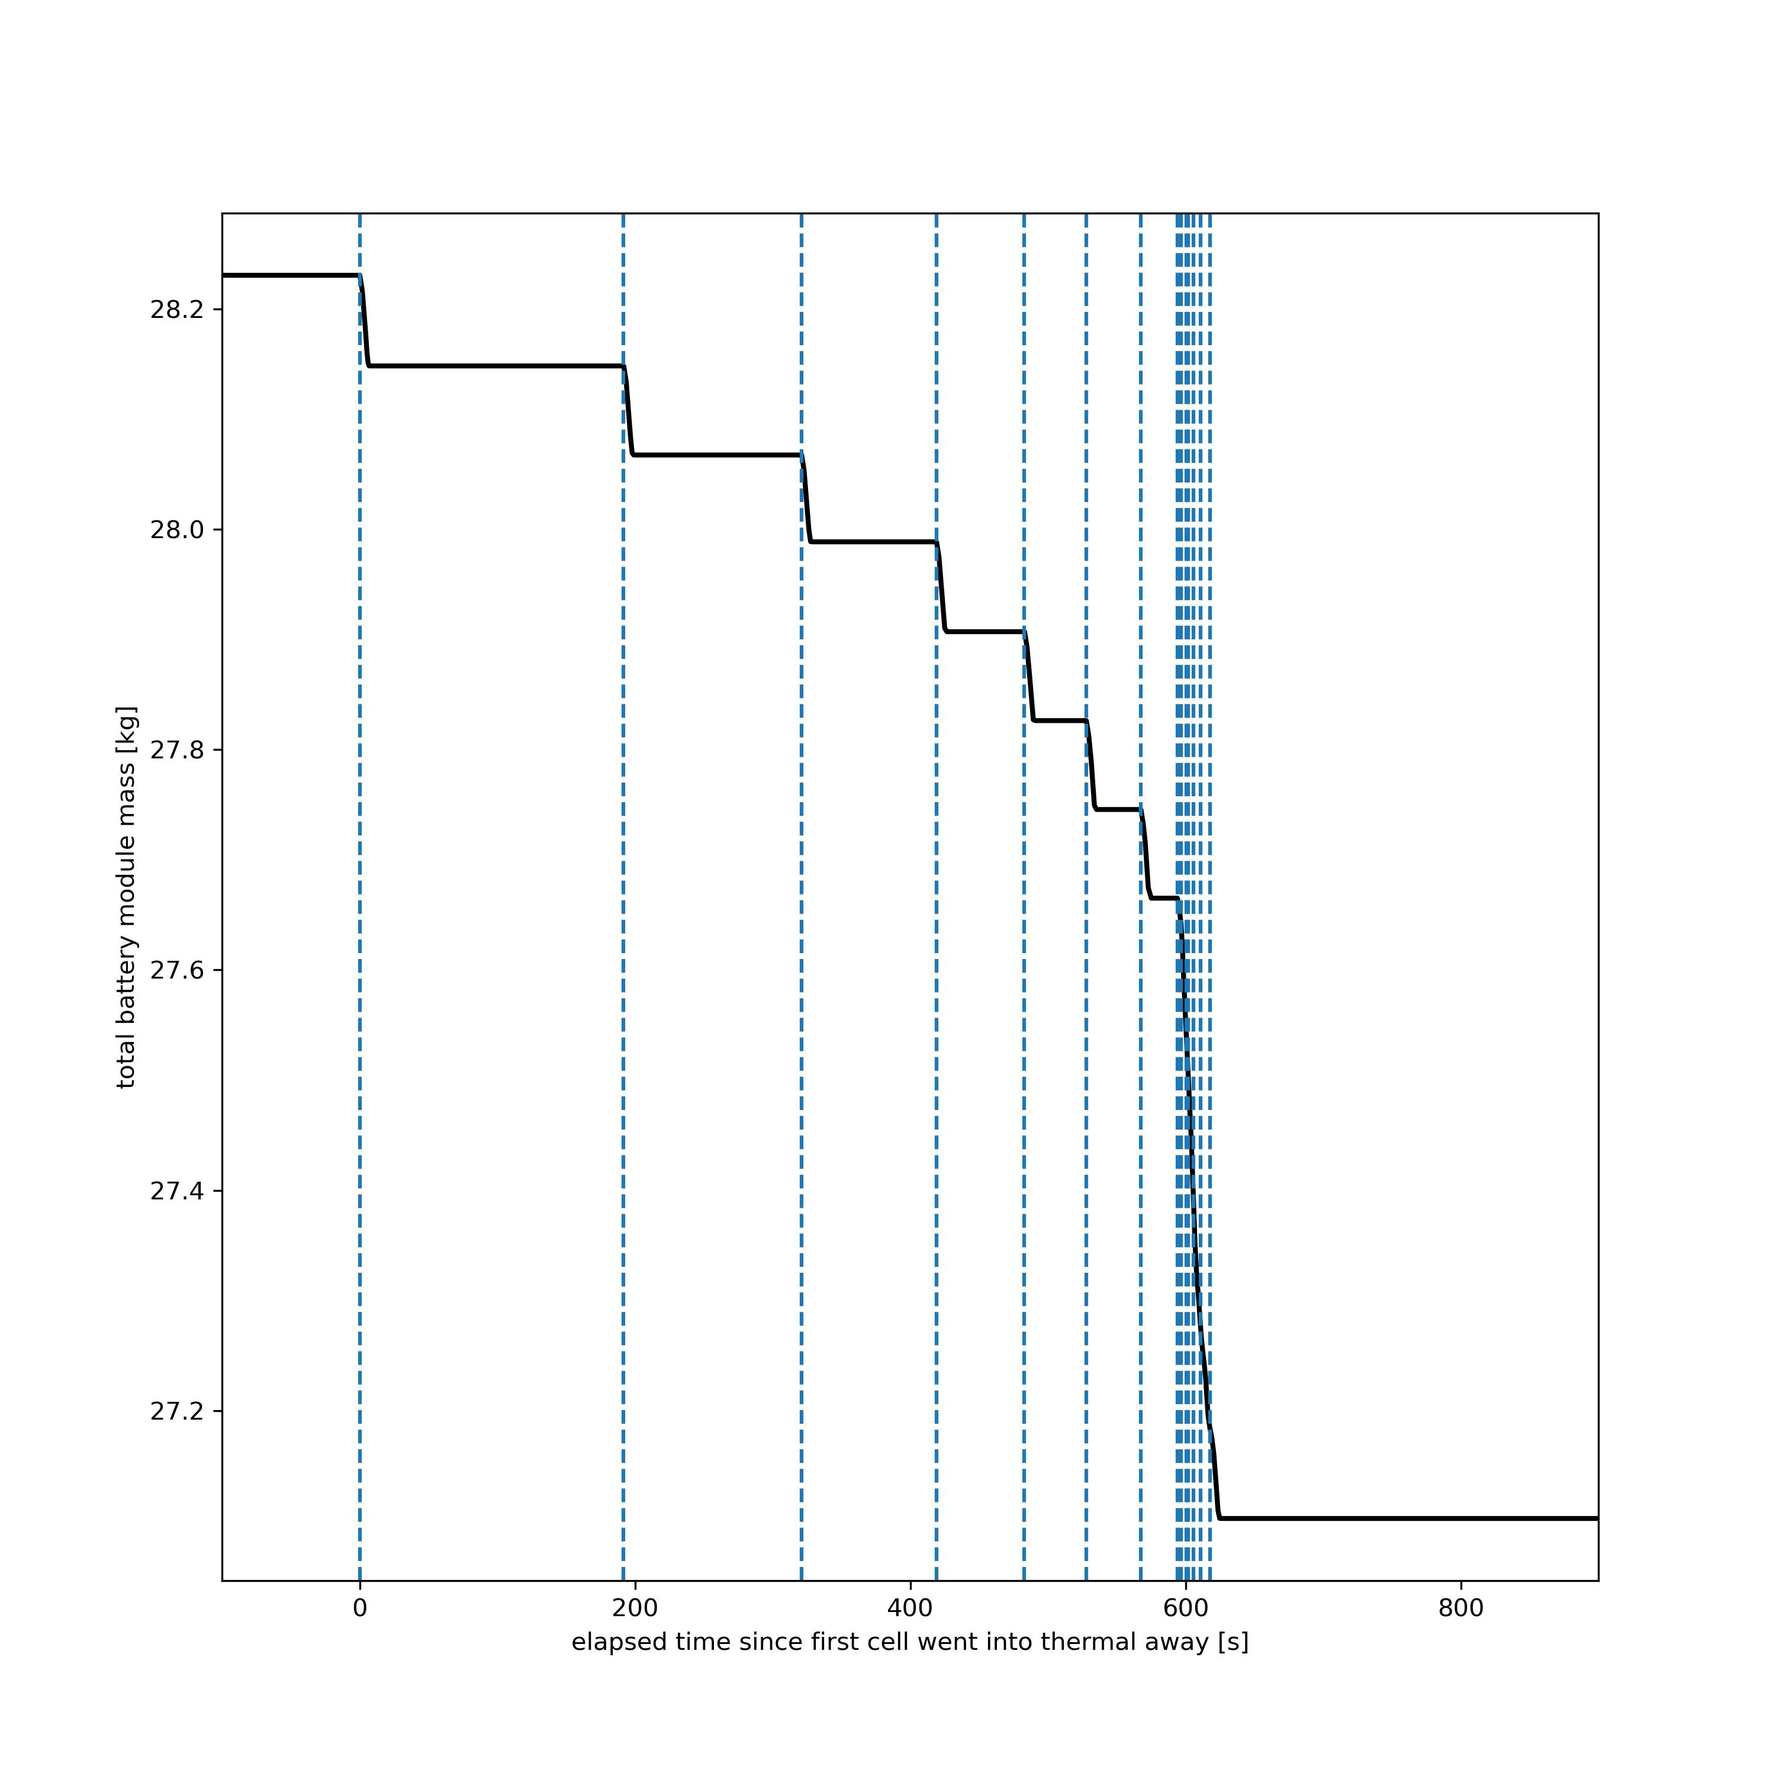
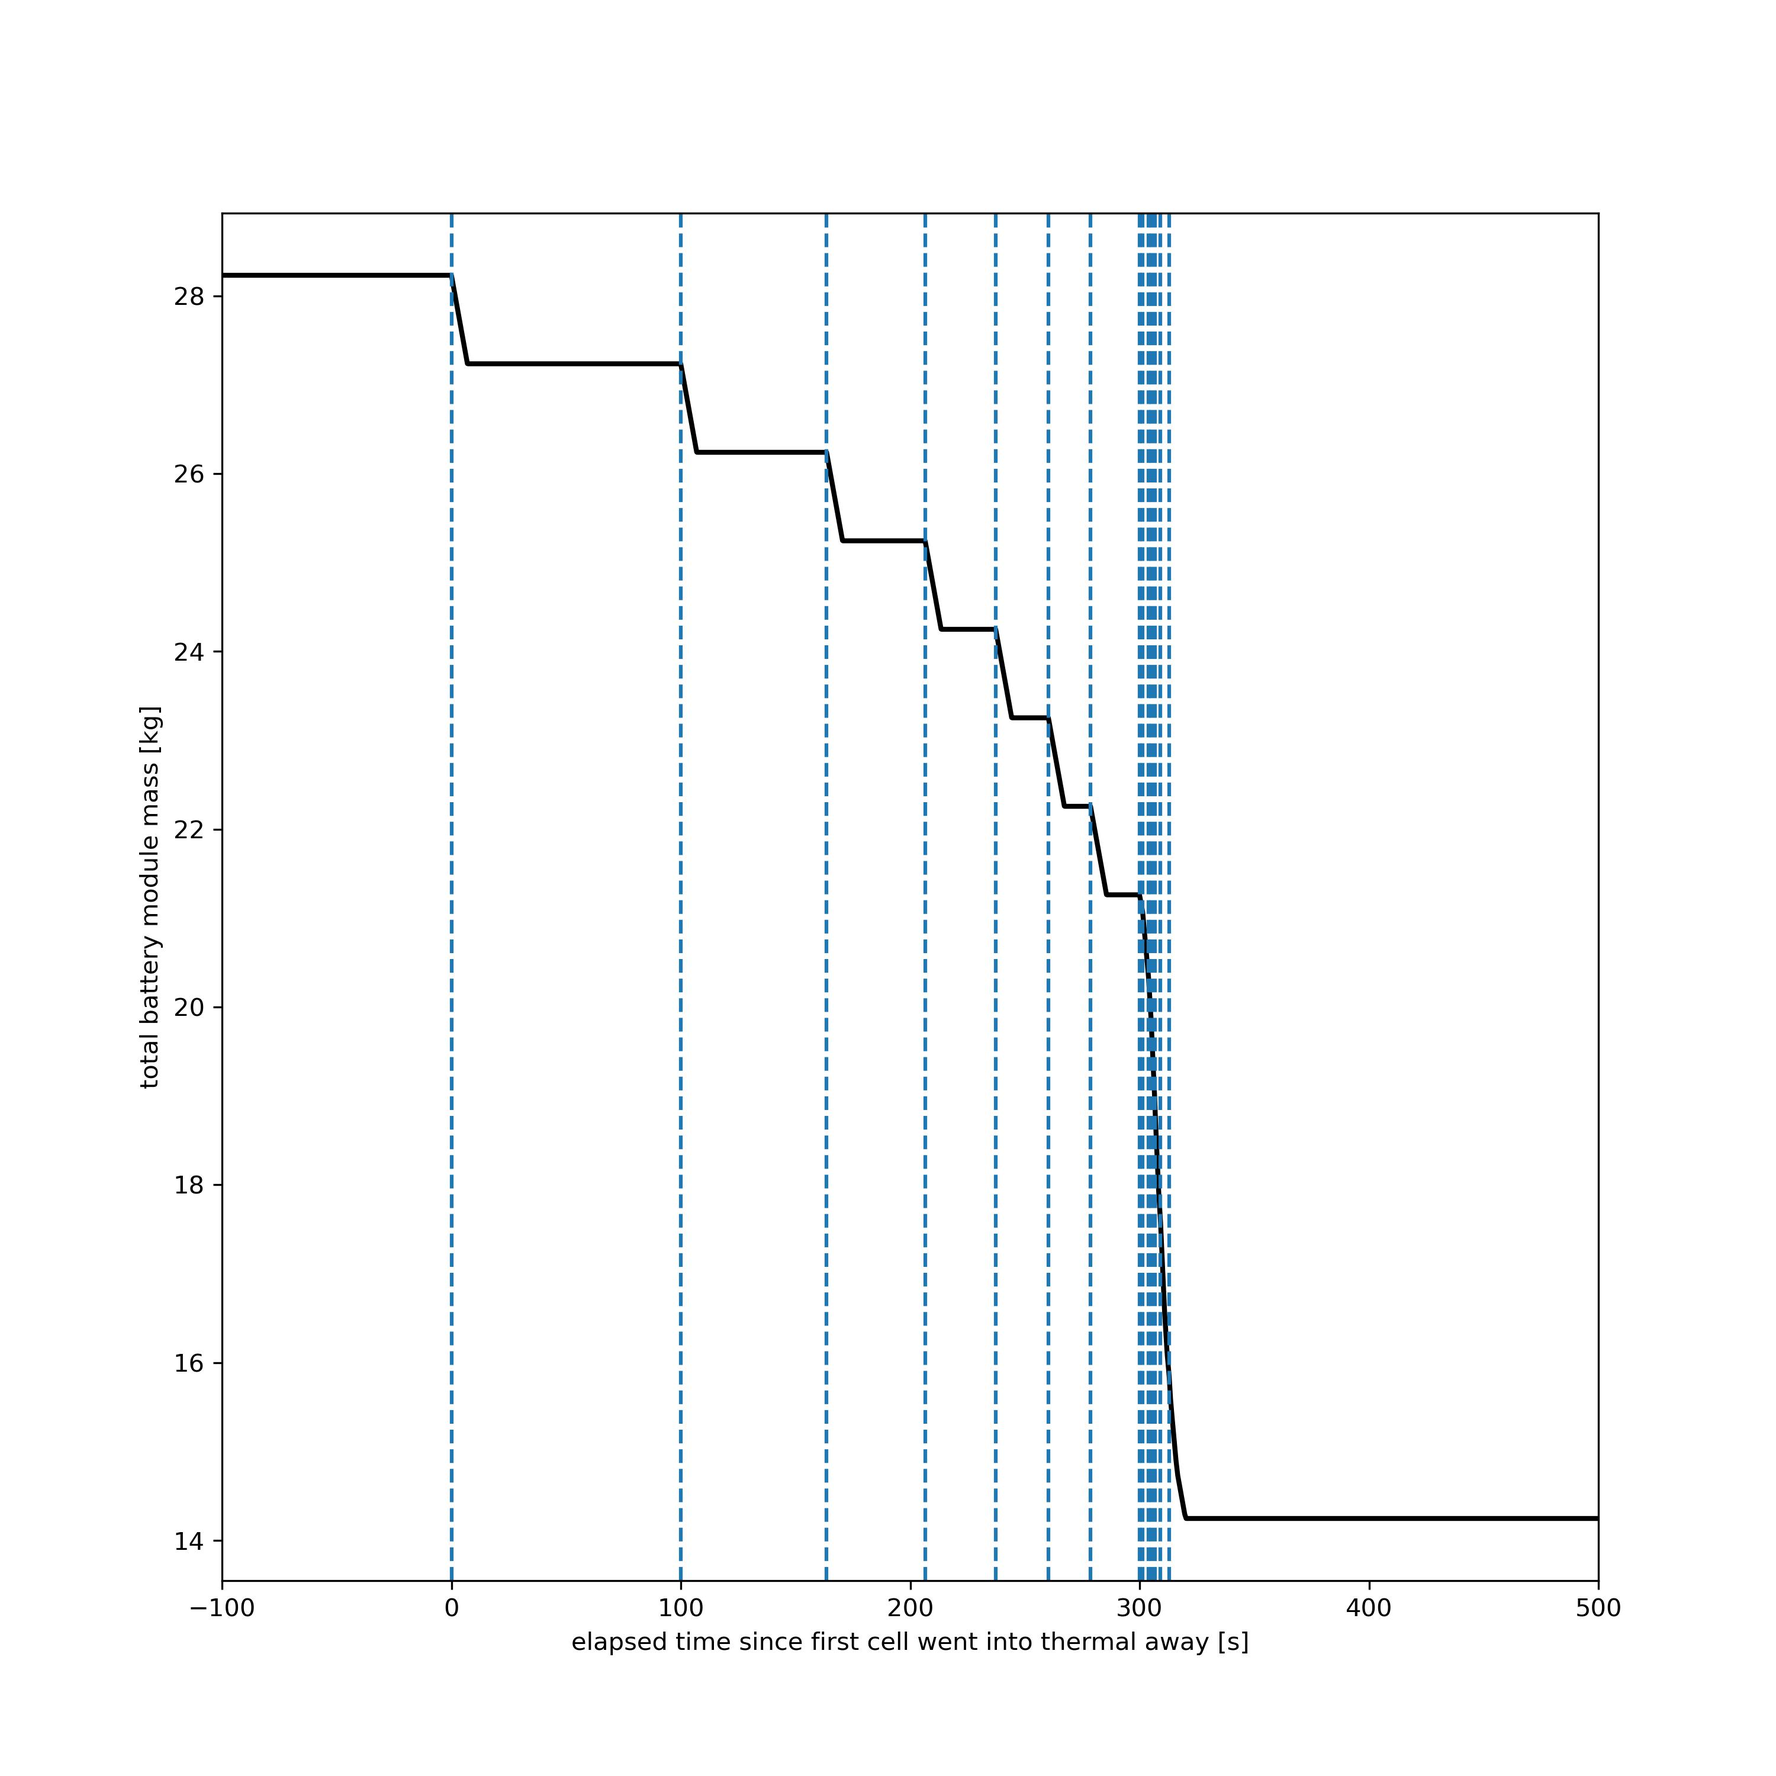
Model improved; baseline confirmed

diff --git a/sim.py b/sim.py
@@ -23,7 +23,7 @@ CELL_LENGTH = 0.173
 CELL_WIDTH = 0.045
 CELL_HEIGHT = 0.125
 
-CELL_MEAN_SPECIFIC_HEAT = 1100.0 # J __kg __K
+CELL_MEAN_SPECIFIC_HEAT = 950.0 # J __kg __K
 
 CELL_WIDTH_GAP = 0.03
 CELL_WIDTHWISE_CENTER_DIST = CELL_WIDTH_GAP + CELL_WIDTH
@@ -36,6 +36,8 @@ BASE_TO_CEILING_DIST = 0.35
 # Initial values
 CELL_INIT_TEMP = 300.0 # Kelvin
 CELL_INIT_MASS = 2.01 # kg 
+
+CELL_MASS_LOSS = 1.0 
 # external heat sources
 HEATING_PWR = 500.0 # Watts
 
@@ -56,7 +58,7 @@ SPECIFIC_HEAT_ARRAY[14] = 5/2 * R_UNIVERSAL / MOLECULAR_WEIGHT_AIR
 
 TIME_VENTING = 7.0
 
-REACT_RLSE_ENG_J = 1100 * 1000 * CELL_INIT_MASS
+REACT_RLSE_ENG_J = 1000 * 1000 * CELL_INIT_MASS
 REACT_RLSE_PWR_W = REACT_RLSE_ENG_J / TIME_VENTING
 
 def thermal_conductivity(temp_K):
@@ -93,6 +95,48 @@ def gas_venting_rate(time_s, temp_K):
     cur_mass_rate = 101325 * cur_vol_rate / temp_K[:14] / 8.314 * 29e-3
     return cur_mass_rate
 
+def tr_func_scope(t, y, init_heating: bool, battery_module: CellModule, vent_time_remaining, cell_ind: int):
+    T = y[:15] 
+
+    M = y[15:30]
+
+    radiation_release = SIGMA * np.power(T, 4) * battery_module.radiation_area \
+                        * battery_module.emissivity
+    radiation_aborption_lst = ((battery_module.rad_matrix.transpose())[cell_ind])\
+                        * radiation_release * battery_module.absorptivity[cell_ind]
+
+    # convection heat aborption from air
+    cur_ind_conv_absp = battery_module.cell_total_area * H_CONV_HT_COEFF * (T[14] - T)
+    cur_ind_conv_absp = cur_ind_conv_absp[cell_ind]
+
+    temp_col = battery_module.cond_matrix[cell_ind].copy()
+    temp_col[cell_ind] = 0.0
+    cur_ind_cond_absp_lst = thermal_conductivity(T[14]) * battery_module.cell_height * \
+        battery_module.cell_length * temp_col * (T - T[cell_ind])
+
+    heating_source = np.zeros(15)
+    mass_change_rate = np.zeros(15)
+    signed_enthalpy_change = np.zeros(15)
+    if init_heating:
+        heating_source[0] = HEATING_PWR
+    else:
+        vent_gas_mass_array = -1 * gas_venting_rate(TIME_VENTING - vent_time_remaining + t,T)
+        for cur_index in range(14):
+            if vent_time_remaining[cur_index] > 0.0 and t < vent_time_remaining[cur_index]:
+                heating_source[cur_index] = REACT_RLSE_PWR_W
+                if vent_gas_mass_array[cur_index] < 0:
+                    mass_change_rate[cur_index] = - CELL_MASS_LOSS / TIME_VENTING
+                    signed_enthalpy_change[cur_index] = SPECIFIC_HEAT_CP * \
+                    vent_gas_mass_array[cur_index] * T[cur_index]
+        signed_enthalpy_change[14] = np.sum(SPECIFIC_HEAT_CP* (-1) * vent_gas_mass_array * (T-T[14])[:14])
+
+    cur_ind_heating_source = heating_source[cell_ind]
+    cur_ind_mass_change_rate = mass_change_rate[cell_ind]
+    cur_ind_signed_enthalpy_change = signed_enthalpy_change[cell_ind]
+
+    return radiation_release[cell_ind],radiation_aborption_lst, cur_ind_conv_absp, cur_ind_cond_absp_lst, \
+    cur_ind_heating_source, cur_ind_mass_change_rate, cur_ind_signed_enthalpy_change
+
 def tr_function(t, y, init_heating: bool, battery_module: CellModule, vent_time_remaining):
     y_prime = np.zeros(30)
 
@@ -112,26 +156,27 @@ def tr_function(t, y, init_heating: bool, battery_module: CellModule, vent_time_
     negative_conv = np.sum(convection_absorption) * (-1)
     convection_absorption[14] = negative_conv
 
-    conduction_absorption = thermal_conductivity(T) * battery_module.cell_height * \
+    conduction_absorption = thermal_conductivity(T[14]) * battery_module.cell_height * \
                             battery_module.cell_length * np.matmul(battery_module.cond_matrix, T)
 
     heating_source = np.zeros(15)
     mass_change_rate = np.zeros(15)
+    signed_enthalpy_change = np.zeros(15)
     if init_heating:
         heating_source[0] = HEATING_PWR
-    else:
-        #cur_ = -1 * gas_venting_rate(TIME_VENTING - vent_time_remaining + t,T)
-        temp_mass_array = -1 * gas_venting_rate(TIME_VENTING - vent_time_remaining + t,T)
+    else:       
+        vent_gas_mass_array = -1 * gas_venting_rate(TIME_VENTING - vent_time_remaining + t,T)
         for cur_index in range(14):
             if vent_time_remaining[cur_index] > 0.0 and t < vent_time_remaining[cur_index]:
-                #heating_source[cur_index] = REACT_RLSE_PWR_W 
                 heating_source[cur_index] = REACT_RLSE_PWR_W
-                #mass_change_rate[cur_index] = [cur_index]
-                mass_change_rate[cur_index] = temp_mass_array[cur_index]
-                #heating_source[cur_index] = -1 * mass_change_rate[cur_index] * 1200 * 1000
-
-    signed_enthalpy_change = SPECIFIC_HEAT_CP * mass_change_rate * T
-    signed_enthalpy_change[14] = np.sum(SPECIFIC_HEAT_CP* (-1) * mass_change_rate * (T-T[14]))
+                if vent_gas_mass_array[cur_index] < 0:
+                    mass_change_rate[cur_index] = - CELL_MASS_LOSS / TIME_VENTING
+                    #signed_enthalpy_change[cur_index] = SPECIFIC_HEAT_ARRAY[:14][cur_index] * \
+                    #(mass_change_rate[cur_index] - vent_gas_mass_array[cur_index]) * T[cur_index] + \
+                    #SPECIFIC_HEAT_CP * vent_gas_mass_array[cur_index] * T[cur_index]
+                    signed_enthalpy_change[cur_index] = SPECIFIC_HEAT_CP * \
+                    vent_gas_mass_array[cur_index] * T[cur_index]
+        signed_enthalpy_change[14] = np.sum(SPECIFIC_HEAT_CP* (-1) * vent_gas_mass_array * (T-T[14])[:14])
 
     y_prime[:15] = (radiation_aborption
                    - radiation_release
@@ -140,7 +185,6 @@ def tr_function(t, y, init_heating: bool, battery_module: CellModule, vent_time_
                    + heating_source
                    + signed_enthalpy_change
                    )/ (M*SPECIFIC_HEAT_ARRAY)
-
     y_prime[15:30] = mass_change_rate
     return y_prime
 
@@ -180,14 +224,41 @@ def main():
     init_heating = True
     vent_time_remaining = np.zeros(14)
 
+    rad_release_dict = {}
+    rad_absp_dict = {}
+    conv_absp_dict= {}
+    cond_absp_dict = {}
+    heat_src_dict = {}
+    enthalpy_dict = {}
+
+    for index in range(14):
+        rad_release_dict[index] = [0.0]
+        rad_absp_dict[index] = [np.zeros(15)]
+        conv_absp_dict[index] = [0.0]
+        cond_absp_dict[index] = [np.zeros(15)]
+        heat_src_dict[index] = [0.0]
+        enthalpy_dict[index] = [0.0]
+
     while count <=13:
         print(count)
         cur_solution = solve_ivp(tr_function,
                                  time_range,
                                  init_y_,
                                  events=stop_func,
+                                 max_step=0.2,
                                  args=(init_heating,lco_battery_module,vent_time_remaining))
-        #print(cur_solution.y[:,-1])
+        for cell_index in range(14):
+            for t_step in range(cur_solution.y.shape[1]):
+                cur_t = cur_solution.t[t_step]
+                cur_y = cur_solution.y[:,t_step]
+                cur_scope_ans = tr_func_scope(cur_t, cur_y, init_heating,lco_battery_module,vent_time_remaining,cell_index)
+                rad_release_dict[cell_index].append(cur_scope_ans[0])
+                rad_absp_dict[cell_index].append(cur_scope_ans[1])
+                conv_absp_dict[cell_index].append(cur_scope_ans[2])
+                cond_absp_dict[cell_index].append(cur_scope_ans[3])
+                heat_src_dict[cell_index].append(cur_scope_ans[4])
+                enthalpy_dict[cell_index].append(cur_scope_ans[6])
+
         assert cur_solution.message == 'A termination event occurred.'
 
         solution_t = np.concatenate((solution_t, cur_solution.t + time_offset))
@@ -216,8 +287,7 @@ def main():
                     vent_time_remaining[index] = TIME_VENTING
 
         if init_heating:
-            init_heating = False 
- 
+            init_heating = False
         count +=1
 
     cur_solution = solve_ivp(tr_function,
@@ -225,31 +295,112 @@ def main():
                     init_y_,
                     events=stop_func,
                     args=(init_heating,lco_battery_module,vent_time_remaining))
+    for cell_index in range(14):
+        for t_step in range(cur_solution.y.shape[1]):
+            cur_t = cur_solution.t[t_step]
+            cur_y = cur_solution.y[:,t_step]
+            cur_scope_ans = tr_func_scope(cur_t, cur_y, init_heating,lco_battery_module,vent_time_remaining,cell_index)
+            rad_release_dict[cell_index].append(cur_scope_ans[0])
+            rad_absp_dict[cell_index].append(cur_scope_ans[1])
+            conv_absp_dict[cell_index].append(cur_scope_ans[2])
+            cond_absp_dict[cell_index].append(cur_scope_ans[3])
+            heat_src_dict[cell_index].append(cur_scope_ans[4])
+            enthalpy_dict[cell_index].append(cur_scope_ans[6])
     solution_t = np.concatenate((solution_t, cur_solution.t + time_offset))
     solution_y = np.concatenate((solution_y, cur_solution.y), axis=1)
 
-    print(lco_battery_module.failed_list)
+    print(f'The failing order for the cell within the module is  \
+    {str(lco_battery_module.failed_list).strip("[").strip("]").replace(", "," -> ")}')
     mass_y = solution_y[15:,:]
     mass_profile = np.sum(mass_y,axis=0)
-    print(mass_profile.shape)
-    fig, axe = plt.subplots(figsize=(10,10))
-    axe.plot(solution_t - crit_time_stamp[0],mass_profile, color='black',linewidth=2)
-    axe.set(xlim=(-100,900),xlabel='elapsed time since first cell went into thermal away [s]',
-            ylabel='total battery module mass [kg]')
-    for each_crit_timestamp in np.cumsum(np.array(crit_time_stamp)):
-        axe.axvline(x=each_crit_timestamp-crit_time_stamp[0],linestyle='dashed')
-    plt.show()
-    fig.savefig('./mass_loss.jpg',dpi=300)
-    with np.printoptions(precision=1, suppress=True):
-        print(np.array(crit_time_stamp))
+    print(f'Total time step number is: {mass_profile.shape[0]}')
 
-    fig2, axe2 = plt.subplots(figsize=(10,10))
-    for i in range(14):
-        axe2.plot(solution_t - crit_time_stamp[0],solution_y[i,:],label=f'cell {i+1}')
-    axe2.plot(solution_t - crit_time_stamp[0],solution_y[14,:],label='Air',linestyle='dashed')
-    axe2.set(xlabel='elapsed time since first cell went into thermal runaway [s]',
-             ylabel='temperature [K]')
-    axe2.legend()
-    plt.show()
-    fig2.savefig('./temperature.jpg',dpi=300)
+    for cell_index in range(14):
+        rad_release_dict[cell_index] = np.array(rad_release_dict[cell_index])
+        rad_absp_dict[cell_index] = np.array(rad_absp_dict[cell_index])
+        conv_absp_dict[cell_index] = np.array(conv_absp_dict[cell_index])
+        cond_absp_dict[cell_index] = np.array(cond_absp_dict[cell_index])
+        heat_src_dict[cell_index] = np.array(heat_src_dict[cell_index])
+        enthalpy_dict[cell_index] = np.array(enthalpy_dict[cell_index])
+    if False:
+        fig, axe = plt.subplots(figsize=(10,10))
+        #axe.set(xlim=(200,600))
+        axe.set(xlabel='Time since first cell went into TR [s]',
+                ylabel='Temperature [K]')
+        for ind in range(13):
+            axe.plot(solution_t - crit_time_stamp[0],solution_y[ind,:],label=f'cell {ind+1}')
+        plt.show()
+    if False:
+
+        ln1 = axe.plot(solution_t - crit_time_stamp[0],solution_y[3,:],label='cell 4')
+        ln2 = axe.plot(solution_t - crit_time_stamp[0],solution_y[14,:],label='Air',linestyle='solid',linewidth=2)
+    if False:
+        axe2 = axe.twinx()
+        axe2.set(ylabel='Heat Transfer Power [W]')
+        #ln3 = axe2.plot(solution_t - crit_time_stamp[0],
+        #                + np.sum(rad_absp_dict[3],axis=1) 
+        #                #- rad_release_dict[3]
+        #                + conv_absp_dict[3]
+        #                + np.sum(cond_absp_dict[3],axis=1)
+        #                - rad_release_dict[3]
+        #                + heat_src_dict[3],
+        #                label='cell 4 heat ransfer',color='red',linestyle='dashed')
+        axe2.axhline(y=0.0,color='black')
+
+        #ln3 = axe2.plot(solution_t - crit_time_stamp[0], conv_absp_dict[3],
+        #                label='cell 4 conv',color='red',linestyle='dashed')
+        #ln4 = axe2.plot(solution_t - crit_time_stamp[0], rad_release_dict[3],
+        #                label='cell 4 rad release',linestyle='dashed')
+        #ln5 = axe2.plot(solution_t - crit_time_stamp[0], np.sum(rad_absp_dict[3],axis=1),
+        #                label='cell 4 rad absorption',linestyle='dashed')
+        #ln6 = axe2.plot(solution_t - crit_time_stamp[0], np.sum(cond_absp_dict[3],axis=1),
+        #                label='cell 4 conduction absorption', linestyle='dashed')
+        #ln7 = axe2.plot(solution_t - crit_time_stamp[0], enthalpy_dict[3],
+        #                label='cell 4 energy change due to mass losss', linestyle='dashed')
+        #lns = ln1 + ln2 + ln3 + ln4 + ln5 + ln6 + ln7
+        #for i in [2,4]:
+        #    cur_ln = axe2.plot(solution_t - crit_time_stamp[0], cond_absp_dict[3][:,i],label=f'cell 4 absorption from {i+1} conduction', linestyle='dashed')
+        #    lns += cur_ln
+        #cur_ln = axe2.plot(solution_t - crit_time_stamp[0], np.sum(rad_absp_dict[3],axis=1),label='cell 4 absorption sum', linestyle='dashed')
+        #lns += cur_ln
+        ln3 = axe2.plot(solution_t - crit_time_stamp[0], rad_release_dict[3],
+                        label='cell 4 rad release',linestyle='dashed')
+        lns = ln1 + ln2 + ln3
+        for j in [2,4,9,10,11]:
+            cur_ln = axe2.plot(solution_t - crit_time_stamp[0], rad_absp_dict[3][:,j],label=f'cell 4 absorption from {j+1} radation', linestyle='dashed')
+            lns += cur_ln
+        cur_ln2 = axe2.plot(solution_t - crit_time_stamp[0], rad_absp_dict[3][:,14],label='cell 4 absorption from air radation', linestyle='dashed')
+        lns += cur_ln2
+        #ln4 = axe2.plot(solution_t - crit_time_stamp[0], cond_absp_dict[])
+
+        labs = [l.get_label() for l in lns]
+        axe.legend(lns, labs, loc=0)
+        plt.show()
+        #axe.set(xlim=(-100,500),xlabel='elapsed time since first cell went into thermal away [s]',
+        #           ylabel='total battery module mass [kg]')
+
+    if True:
+        fig, axe = plt.subplots(figsize=(10,10))
+        axe.plot(solution_t - crit_time_stamp[0],mass_profile, color='black',linewidth=2)
+        axe.set(xlim=(-100,500),xlabel='elapsed time since first cell went into thermal away [s]',
+                ylabel='total battery module mass [kg]')
+        for each_crit_timestamp in np.cumsum(np.array(crit_time_stamp)):
+            axe.axvline(x=each_crit_timestamp-crit_time_stamp[0],linestyle='dashed')
+        plt.show()
+        fig.savefig('./mass_loss.jpg',dpi=300)
+        with np.printoptions(precision=1, suppress=True):
+            print_crit_time_stamp = []
+            for element in crit_time_stamp:
+                print_crit_time_stamp.append("{:.1f}".format(element))
+            print(f"Cell-to-cell TR propagation time is:\n{' -> '.join(print_crit_time_stamp)}")
+
+        fig2, axe2 = plt.subplots(figsize=(10,10))
+        for i in range(14):
+            axe2.plot(solution_t - crit_time_stamp[0],solution_y[i,:],label=f'cell {i+1}')
+        axe2.plot(solution_t - crit_time_stamp[0],solution_y[14,:],label='Air',linestyle='dashed')
+        axe2.set(xlabel='elapsed time since first cell went into thermal runaway [s]',
+                ylabel='temperature [K]')
+        axe2.legend()
+        plt.show()
+        fig2.savefig('./temperature.jpg',dpi=300)
 main()
